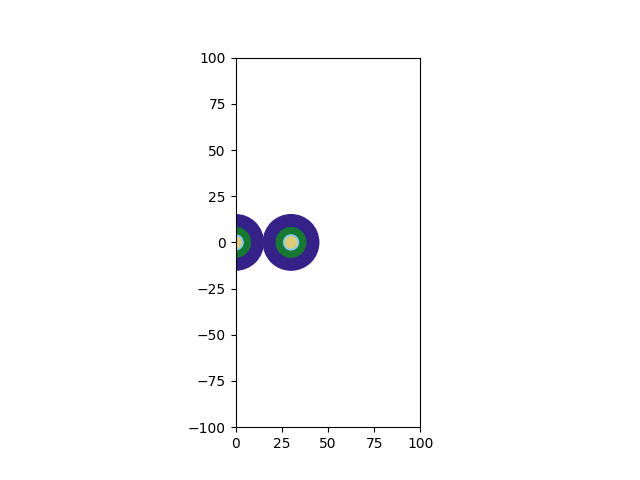
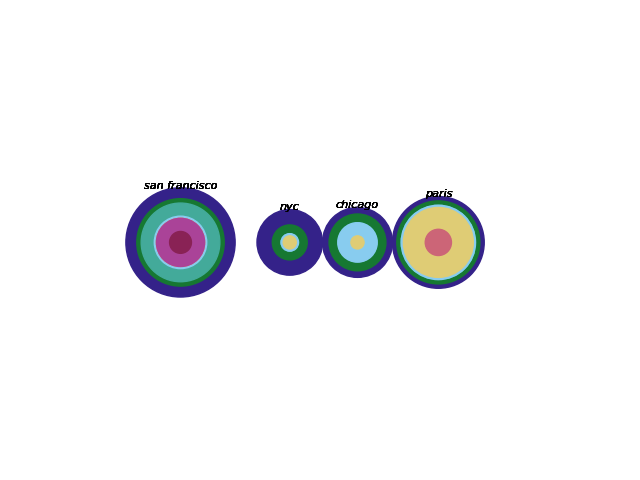
Added more data, made the circle locations in the right spot.

diff --git a/main.py b/main.py
@@ -2,10 +2,14 @@ import matplotlib.pyplot as plt
 import pandas as pd
 import numpy as np
 from IPython.display import set_matplotlib_formats
+import matplotlib.patches as mpatches
+
 set_matplotlib_formats('svg')
 
 data = pd.read_csv("data.csv")
 radius_map = {}
+legend = ['food', 'shopping', 'museums', 'parks', 'monuments','hotels', 'culture', 'sports']
+
 category_to_row = {'food':0, 'shopping':1, 'museums':2, 'parks':3, 'monuments':4,'hotels':5, 'culture':6, 'sports':7}
 for index, row in data.iterrows():
   location = row['location']
@@ -28,19 +32,41 @@ fig, ax = plt.subplots()
 
 
 x,y = 0,0
+max_radius = 0
+curr_max_width = 0
+
 for location in radius_map:
   freq_list = radius_map[location]
+  max_radius = max(max_radius,max(freq_list))
+  if max(freq_list) > curr_max_width:
+    x = x + max(freq_list) - curr_max_width
   for i in range(len(freq_list)):
-    #plt.scatter(x, y, color = colors_IN_ORDER[i], marker = 'o', s = freq_list[i]*1000)
-    circle1 = plt.Circle((x, y), freq_list[i], color= colors_IN_ORDER[i])
+    circle1 = plt.Circle((x, y), freq_list[i], color= colors_IN_ORDER[i], label ='')
     ax.add_patch(circle1)
-  x = x + max(freq_list) *2
+    ax.text(x, y+max(freq_list)+1, location, ha='center', va='center', fontsize=8, style ='italic', )
 
-ax.set_xlim(0, 100)
-ax.set_ylim(-100, 100)
+
+  x = x + max(freq_list) *2 
+  curr_max_width = max(freq_list)
+
+ax.set_xlim(-curr_max_width, x+curr_max_width)
+ax.set_ylim(-max_radius-2, max_radius+2)
 
 # Show plot
 plt.gca().set_aspect('equal', adjustable='box')
-#plt.axis('off')
+plt.axis('off')
 plt.savefig('circles_plot.png')
+
+colors_IN_ORDER = ['#342289', '#167832', '#43AA9A', '#88CCEF', '#DFCC75','#CC6577','#AA4398','#892255']
+
+plt.legend(handles=[mpatches.Patch(color='#342289', label='Food & Drink'), 
+                    mpatches.Patch(color='#167832', label='Shopping'),
+                    mpatches.Patch(color='#43AA9A', label='Museums'),
+                    mpatches.Patch(color='#88CCEF', label='Parks'),
+                    mpatches.Patch(color='#DFCC75', label='Monuments'),
+                    mpatches.Patch(color='#CC6577', label='Hotels'),
+                    mpatches.Patch(color='#AA4398', label='Culture'),
+                    mpatches.Patch(color='#892255', label='Sports')] 
+    ,loc='lower center', 
+    bbox_to_anchor=(0.5, -1.35),ncol=4, )
 plt.show()
